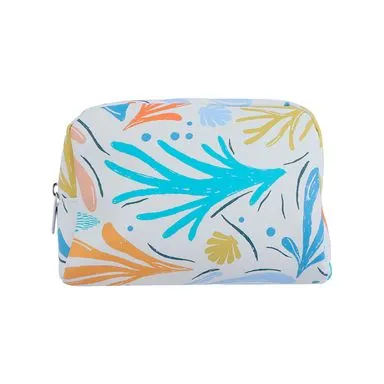
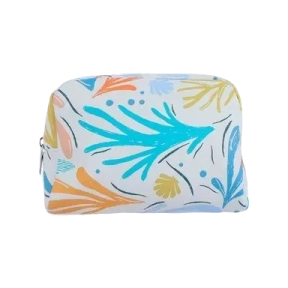
Ajustes de imagenes
se le remueve la marca del fondo del catalogo - inicio

se le quitan los fondos blancos a las imagenes de los catalogos para dejarlas transparentes

diff --git a/assets/css/estiloc.css b/assets/css/estiloc.css
@@ -12,7 +12,7 @@ header h1{
     padding: 30px 0;
 }
 body {
-                background-image: url(https://thumbs.dreamstime.com/b/fondo-blanco-d-geom%C3%A9trico-abstracto-con-tri%C3%A1ngulos-pared-blanca-ilustraci%C3%B3n-vectorial-banner-horizontal-186033608.jpg?w=1600);
+                background-image: url(/assets/img/fondo.jpeg);
                 background-size: cover;
                 background-repeat: no-repeat;
                 background-position: center;

diff --git a/carrito.html b/carrito.html
@@ -216,7 +216,7 @@ style="background-image: url(https://raspberrymag.com/wp-content/uploads/2020/09
 </div>
 <div class="item">
     <span class="titulo-item">Base de maquillaje</span>
-    <img src="/assets/img/carrito/base.jpg" alt="" class="img-item">
+    <img src="/assets/img/carrito/base.png" alt="" class="img-item">
     <span class="precio-item">$20.900</span>
 </div>
 <div class="item">

diff --git a/inicio/inicio.html b/inicio/inicio.html
@@ -232,7 +232,7 @@ style="background-image: url(https://raspberrymag.com/wp-content/uploads/2020/09
 </div>
 <div class="item">
     <span class="titulo-item">Base de maquillaje</span>
-    <img src="/assets/img/carrito/base.jpg" alt="" class="img-item">
+    <img src="/assets/img/carrito/base.png" alt="" class="img-item">
     <span class="precio-item">$20900</span>
 </div>
 <div class="item">
